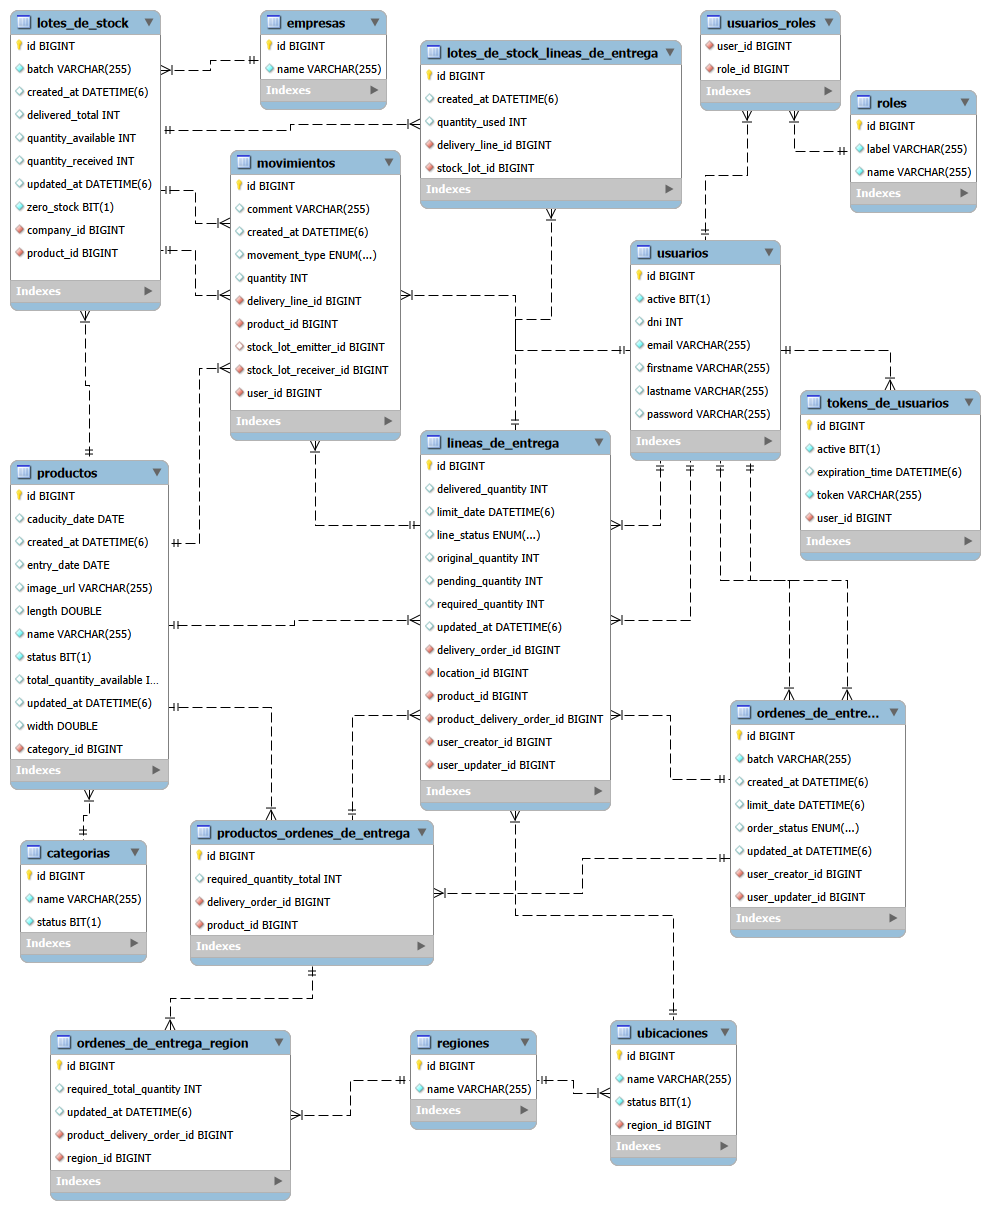
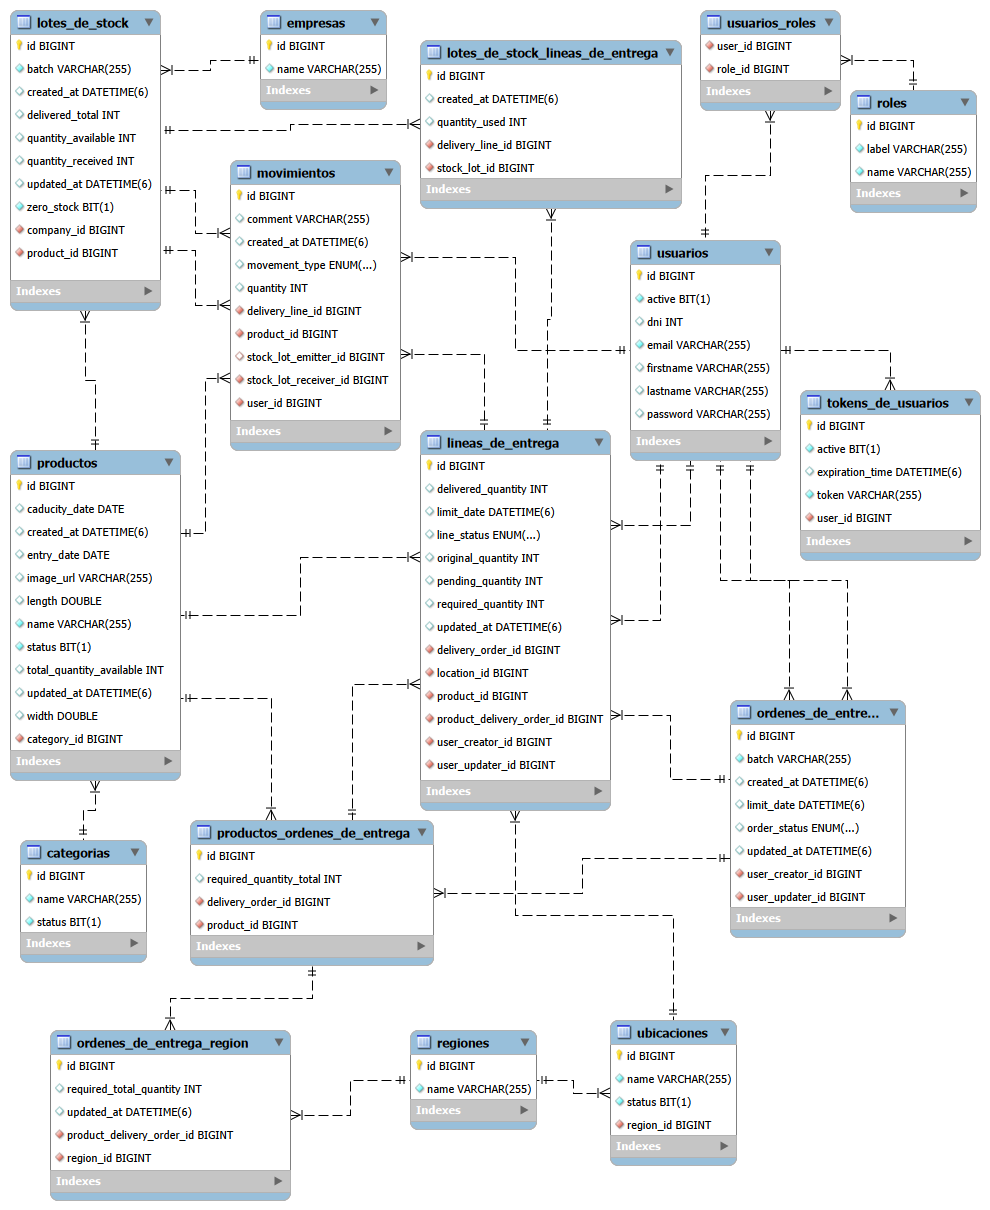
MODIFIQUE LA CLASE DataResponse

diff --git a/src/main/java/com/pe/inventoryapp/backend/common/service/ResponseServiceImpl.java b/src/main/java/com/pe/inventoryapp/backend/common/service/ResponseServiceImpl.java
@@ -5,9 +5,9 @@ import java.util.Map;
 import org.springframework.stereotype.Service;
 
 import com.pe.inventoryapp.backend.common.data.ResponseStatus;
-import com.pe.inventoryapp.backend.common.response.CommonResponse;
-import com.pe.inventoryapp.backend.common.response.DataResponse;
-import com.pe.inventoryapp.backend.common.response.ErrorWithFieldsResponse;
+import com.pe.inventoryapp.backend.common.model.response.CommonResponse;
+import com.pe.inventoryapp.backend.common.model.response.DataResponse;
+import com.pe.inventoryapp.backend.common.model.response.ErrorWithFieldsResponse;
 
 @Service
 public class ResponseServiceImpl implements ResponseService {
@@ -59,14 +59,23 @@ public class ResponseServiceImpl implements ResponseService {
     return errorWithFieldsResponse;
   }
 
+  // @Override
+  // public DataResponse generateDataResponse(ResponseStatus code, Object data) {
+  //   DataResponse dataResponse = new DataResponse();
+  //   dataResponse.setType("success");
+  //   dataResponse.setStatus(code.getStatus().value());
+  //   dataResponse.setData(data);
+
+  //   return dataResponse;
+  // }
+
   @Override
-  public DataResponse generateDataResponse(ResponseStatus code, Object data) {
-    DataResponse dataResponse = new DataResponse();
-    dataResponse.setType("success");
-    dataResponse.setStatus(code.getStatus().value());
-    dataResponse.setData(data);
-    
-    return dataResponse;
+  public <T> DataResponse<T> generateDataResponse(ResponseStatus code, T data) {
+    return new DataResponse<>(
+      "success",
+      code.getStatus().value(),
+      data
+    );
   }
 
   @Override

diff --git a/src/main/java/com/pe/inventoryapp/backend/user/controller/UserController.java b/src/main/java/com/pe/inventoryapp/backend/user/controller/UserController.java
@@ -5,8 +5,8 @@ import org.springframework.web.bind.annotation.RequestParam;
 import org.springframework.web.bind.annotation.RestController;
 
 import com.pe.inventoryapp.backend.common.data.ResponseStatus;
-import com.pe.inventoryapp.backend.common.response.CommonResponse;
-import com.pe.inventoryapp.backend.common.response.DataResponse;
+import com.pe.inventoryapp.backend.common.model.response.CommonResponse;
+import com.pe.inventoryapp.backend.common.model.response.PageResponse;
 import com.pe.inventoryapp.backend.common.service.ResponseService;
 import com.pe.inventoryapp.backend.common.service.ValidationService;
 import com.pe.inventoryapp.backend.security.service.AuthenticationContextService;
@@ -21,7 +21,6 @@ import jakarta.validation.Valid;
 
 import java.util.List;
 import org.springframework.beans.factory.annotation.Autowired;
-import org.springframework.data.domain.Page;
 import org.springframework.data.domain.PageRequest;
 import org.springframework.data.domain.Pageable;
 import org.springframework.http.ResponseEntity;
@@ -69,18 +68,21 @@ public class UserController {
       @RequestParam(required = false) List<Long> idRoles) {
     Pageable pageable = PageRequest.of(page, 20);
 
-    Page<ListUsersResponse> users = userService.findAllUsersByParams(name, idRoles, pageable);
-    DataResponse response = responseService.generateDataResponse(ResponseStatus.SUCCESS, users);
-    return ResponseEntity.status(response.getStatus()).body(response.getData());
+    PageResponse<ListUsersResponse> users = userService.findAllUsersByParams(name, idRoles, pageable);
+    return ResponseEntity.ok(
+        responseService.generateDataResponse(ResponseStatus.SUCCESS, users));
   }
 
   @GetMapping("/profile")
   public ResponseEntity<?> getUserProfile(Authentication authentication) {
     Long username = authenticationContextService.extractUserIdFromAuthentication(authentication);
     DetailUserResponse user = userService.findUserById(username);
-
-    DataResponse response = responseService.generateDataResponse(ResponseStatus.SUCCESS, user);
-    return ResponseEntity.status(response.getStatus()).body(response.getData());
+    
+    // DataResponse response = responseService.generateDataResponse(ResponseStatus.SUCCESS, user);
+    // return ResponseEntity.status(response.status()).body(response.data());
+    return ResponseEntity.ok(
+      responseService.generateDataResponse(ResponseStatus.SUCCESS, user)
+    );
   }
 
   @PutMapping("/profile")

diff --git a/src/main/java/com/pe/inventoryapp/backend/common/model/response/PageResponse.java b/src/main/java/com/pe/inventoryapp/backend/common/model/response/PageResponse.java
@@ -1,0 +1,16 @@
+package com.pe.inventoryapp.backend.common.model.response;
+
+import java.util.List;
+
+// Un record en Java es una clase inmutable y compacta diseñada para transportar datos
+// Automaticamente genera un constructor completo, getters, equals, hashCode y toString
+// Ideal para DTOs pero no sirve para entidades JPA
+public record PageResponse<T>(
+  List<T> content,
+  int page,
+  int size,
+  long totalElements,
+  int totalPages,
+  boolean first,
+  boolean last
+){}

diff --git a/src/main/java/com/pe/inventoryapp/backend/common/service/ResponseService.java b/src/main/java/com/pe/inventoryapp/backend/common/service/ResponseService.java
@@ -3,9 +3,9 @@ package com.pe.inventoryapp.backend.common.service;
 import java.util.Map;
 
 import com.pe.inventoryapp.backend.common.data.ResponseStatus;
-import com.pe.inventoryapp.backend.common.response.CommonResponse;
-import com.pe.inventoryapp.backend.common.response.DataResponse;
-import com.pe.inventoryapp.backend.common.response.ErrorWithFieldsResponse;
+import com.pe.inventoryapp.backend.common.model.response.CommonResponse;
+import com.pe.inventoryapp.backend.common.model.response.DataResponse;
+import com.pe.inventoryapp.backend.common.model.response.ErrorWithFieldsResponse;
 
 public interface ResponseService {
   CommonResponse generateSucessfullResponse(ResponseStatus code, String message);
@@ -15,7 +15,8 @@ public interface ResponseService {
   ErrorWithFieldsResponse generateErrorWithFieldsResponse(ResponseStatus code, String message,
       Map<String, String> fields);
 
-  DataResponse generateDataResponse(ResponseStatus code, Object data);
+  // <T> es un generico que permite recibir cualquier tipo de dato
+  <T> DataResponse<T> generateDataResponse(ResponseStatus code, T data);
 
   CommonResponse generateCommonResponse(String type, ResponseStatus code, String message);
 }

diff --git a/src/main/java/com/pe/inventoryapp/backend/user/controller/RoleController.java b/src/main/java/com/pe/inventoryapp/backend/user/controller/RoleController.java
@@ -8,6 +8,8 @@ import org.springframework.web.bind.annotation.GetMapping;
 import org.springframework.web.bind.annotation.RequestMapping;
 import org.springframework.web.bind.annotation.RestController;
 
+import com.pe.inventoryapp.backend.common.data.ResponseStatus;
+import com.pe.inventoryapp.backend.common.service.ResponseService;
 import com.pe.inventoryapp.backend.user.model.response.RoleResponse;
 import com.pe.inventoryapp.backend.user.service.RoleService;
 
@@ -16,10 +18,13 @@ import com.pe.inventoryapp.backend.user.service.RoleService;
 public class RoleController {
   @Autowired
   private RoleService roleService;
-  
+
+  @Autowired
+  private ResponseService responseService;
+
   @GetMapping
   public ResponseEntity<?> listAllRoles() {
     List<RoleResponse> roles = roleService.findAllRoles();
-    return ResponseEntity.status(200).body(roles);
+    return ResponseEntity.ok(responseService.generateDataResponse(ResponseStatus.SUCCESS, roles));
   }
 }

diff --git a/src/main/java/com/pe/inventoryapp/backend/common/model/response/DataResponse.java b/src/main/java/com/pe/inventoryapp/backend/common/model/response/DataResponse.java
@@ -1,0 +1,8 @@
+package com.pe.inventoryapp.backend.common.model.response;
+
+// Esta clase representa una respuesta que contiene datos, toda respuesta que devuelve datos es exitosa a pesar de no devolver ningun dato, es decir, un arreglo vacio
+public record DataResponse<T>(
+    String type,
+    int status,
+    T data) {
+}